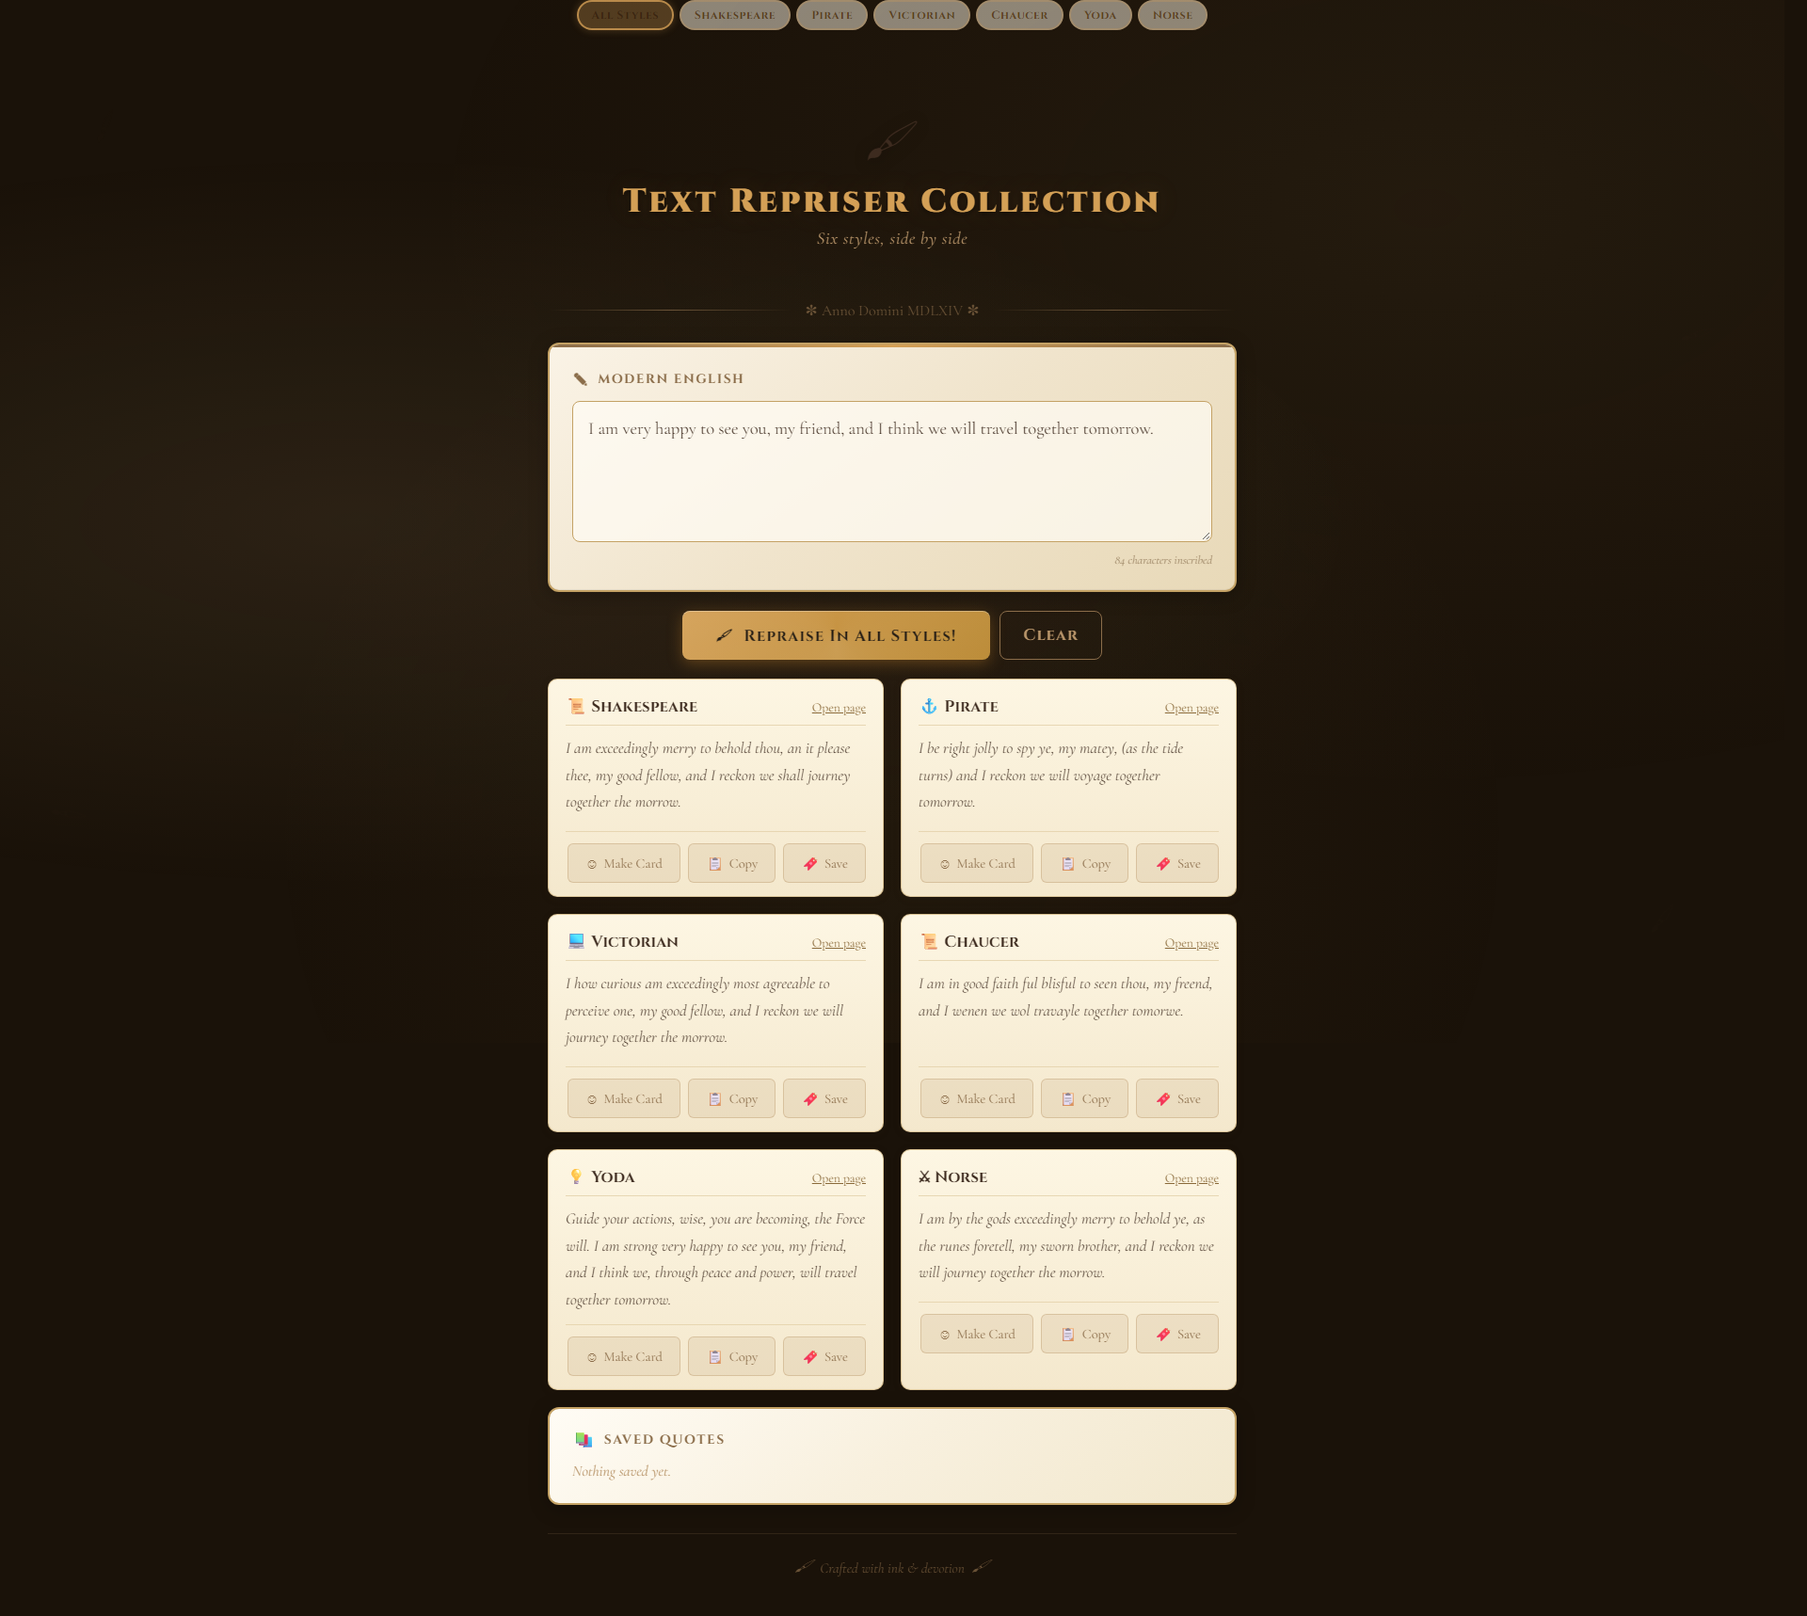
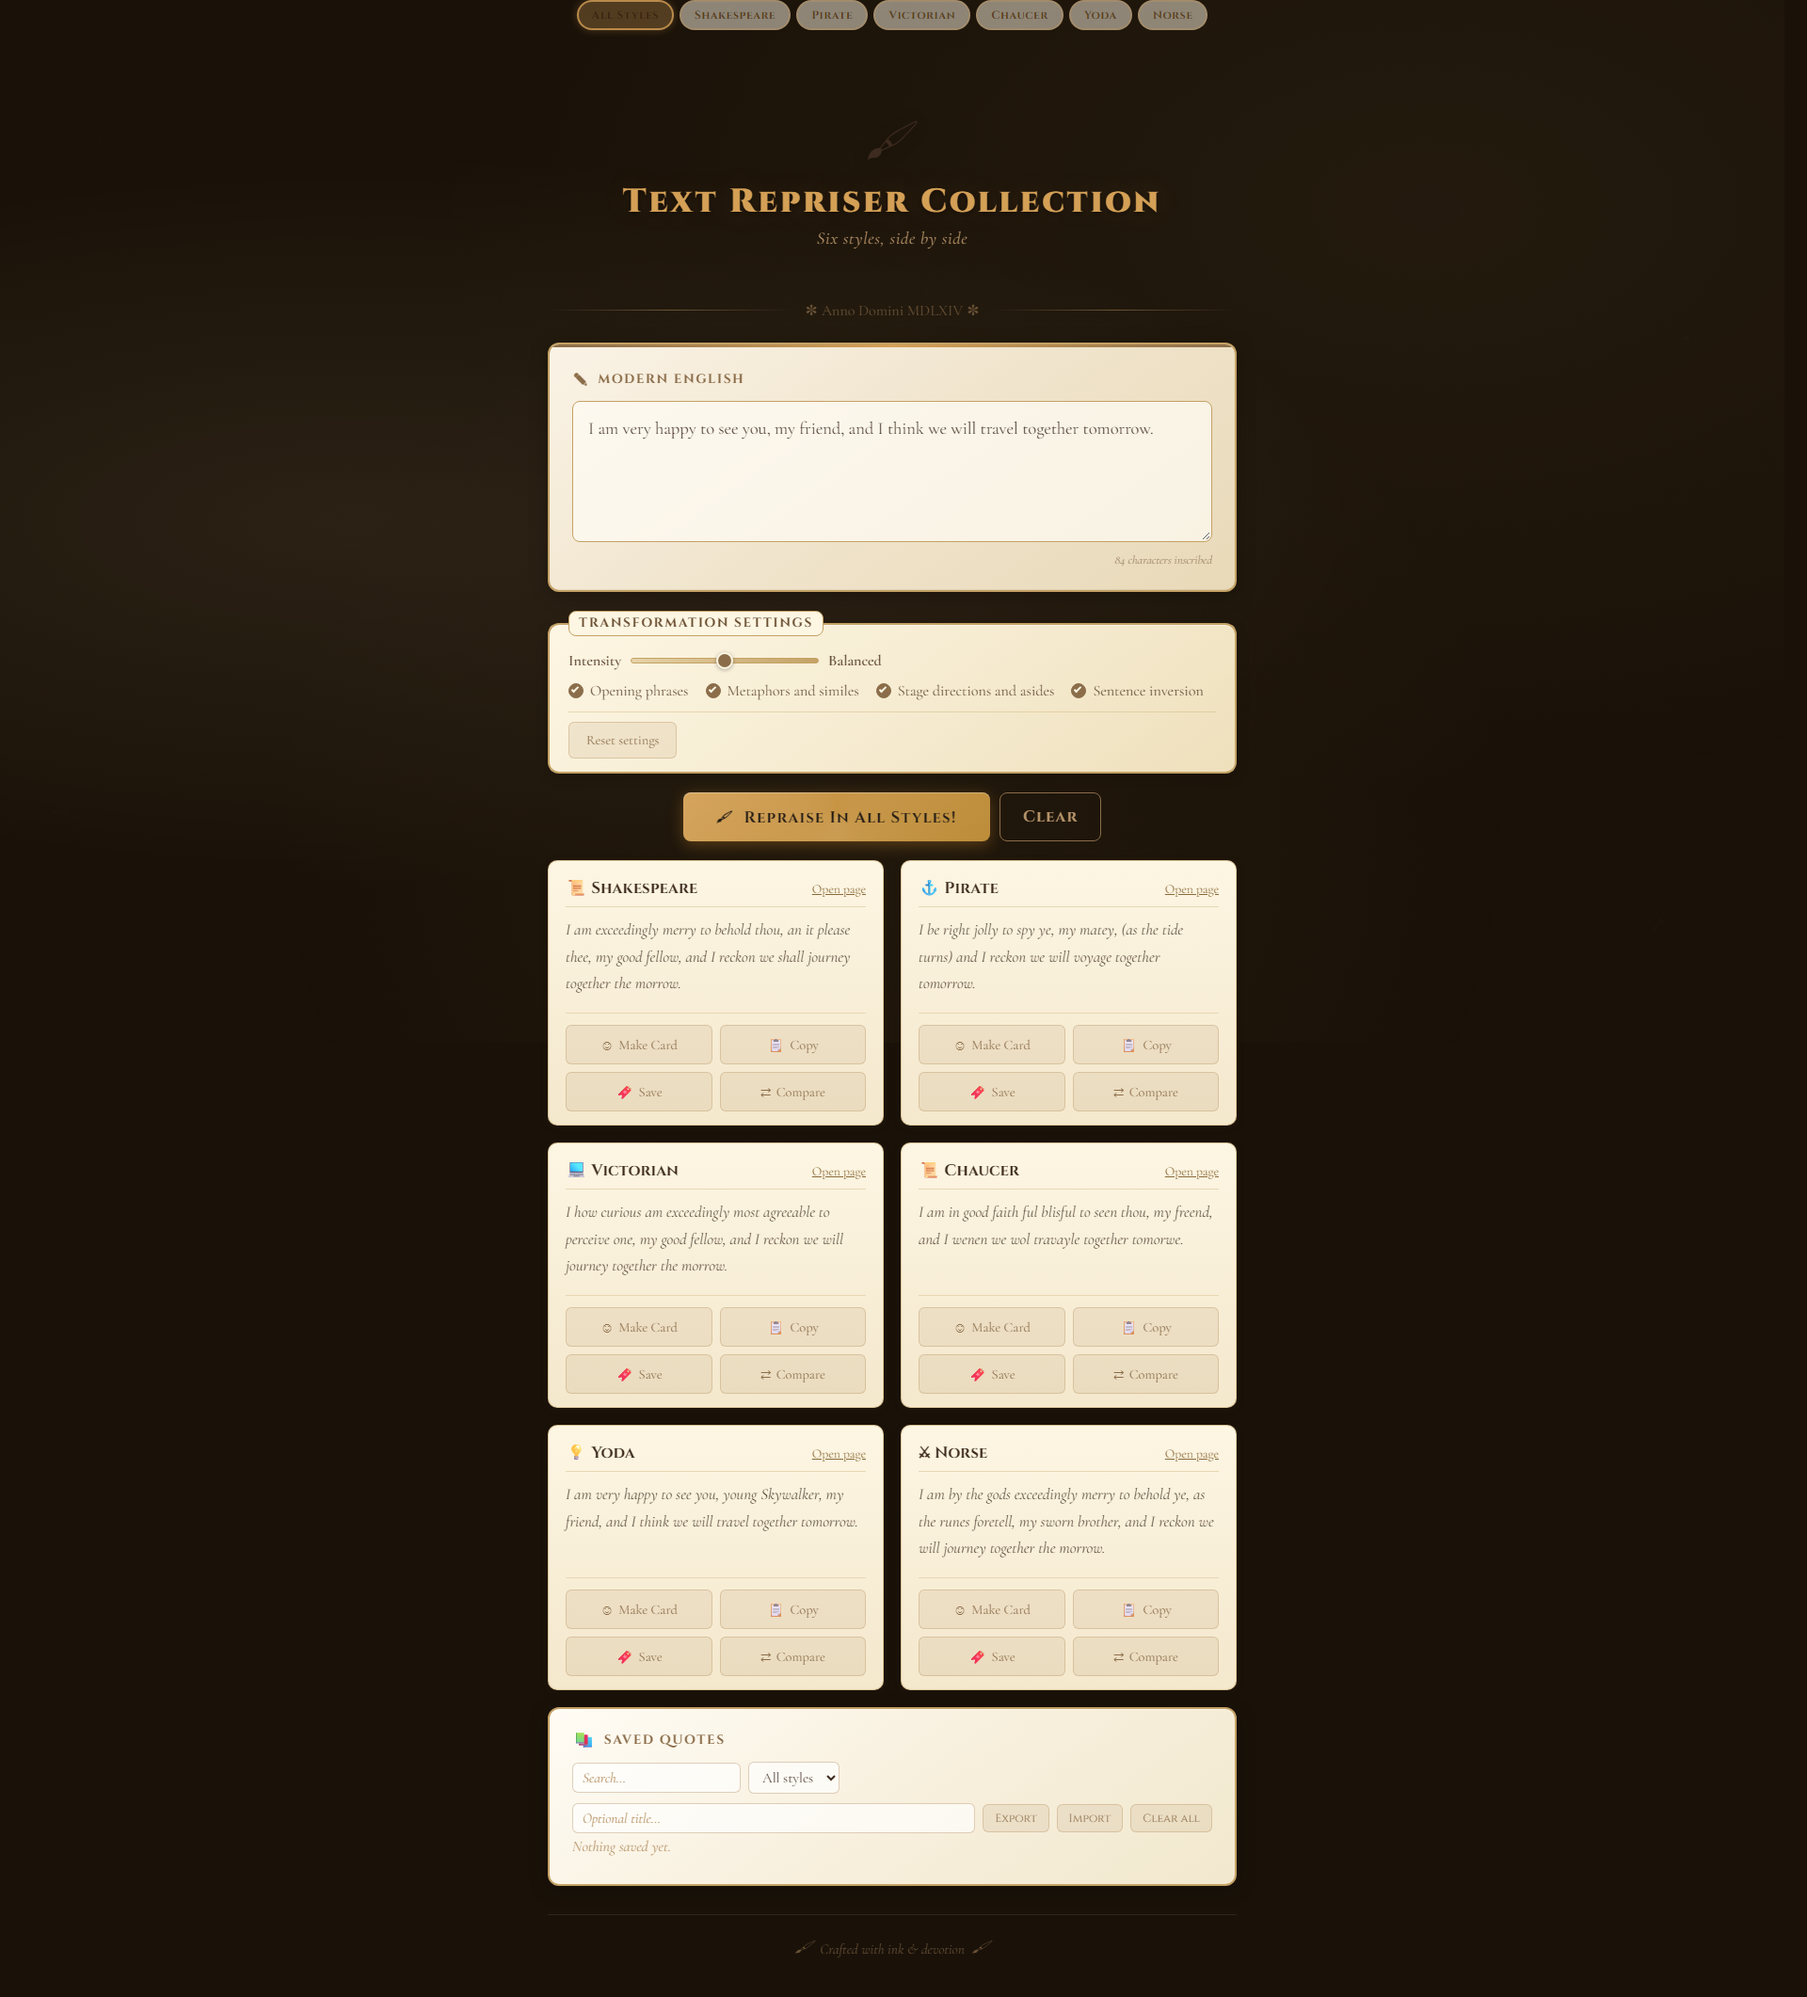
Add AGENTS.md handoff guide; retake screenshot with current settings panel

Changed region(s): [[0.2812, 0.0926, 0.6875, 0.9569], [0.3125, 0.0, 0.6562, 0.0309]]

diff --git a/AGENTS.md b/AGENTS.md
@@ -1,0 +1,121 @@
+# AGENTS.md — Working on shakespeare-repriser
+
+Read this before changing anything. The repo has hard invariants that tests
+enforce; violating them fails `npm test` or corrupts generated files.
+
+## What this is
+
+A collection of seven single-page web apps (dashboard + six styles) that
+rewrite modern English into literary/historical styles. Everything runs
+client-side; zero dependencies; no build toolchain beyond plain Node scripts
+in `tools/`. Live on GitHub Pages.
+
+## Architecture invariants
+
+1. **Every `.html` page is fully standalone.** Shared logic lives once under
+   `tools/` and is pasted **verbatim** into each page by
+   `tools/paste-shared.mjs` — 13 blocks: six JS (`options.js`,
+   `savedquotes.js`, `compare.js`, `cardui.js`, `cardpage.js`, `quotecard.js`),
+   four CSS (`options.css`, `savedquotes.css`, `compare.css`, `card-modal.css`),
+   three HTML (`options.html`, `savedquotes.html`, `card-modal.html`).
+   Edit the file under `tools/`, never the pasted copy inside a page.
+2. **Never hand-edit generated files:**
+   - The pasted copies inside the six style pages.
+   - `index.html` — built from the style pages by `tools/build-dashboard.mjs`
+     (`npm run build`); copies each page's dictionaries, engine, helpers and
+     transform function verbatim so the dashboard cannot drift.
+   - `manifest.json`, `icon-180/192/512.png`, `icon.svg` — drawn by
+     `tools/build-icons.mjs` from shared `GEO` constants (round medallion on a
+     square canvas; maskable-safe; SVG is the primary favicon, PNGs are
+     fallback/apple-touch/manifest).
+3. **`Screenshot.png` is hand-maintained**, not part of the suite. Regenerate
+   only deliberately: `node tools/build-screenshot.mjs` (pins Math.random for
+   reproducibility, drives headless Edge over CDP, waits for webfonts, skips
+   cleanly if Edge is absent).
+4. **Determinism:** every style page seeds its own PRNG (mulberry32). Any new
+   randomness must go through `rand()`, never `Math.random()` — one unseeded
+   call voids the whole regression suite (`snapshot.mjs`/`compare.mjs`).
+5. **Line endings:** generated output (`index.html`, `manifest.json`) is pure
+   LF. The six style pages have mixed endings (~1088 CR bytes each from pasted
+   blocks) — when splicing, be byte-precise; the tools are LF.
+
+## Workflow
+
+```bash
+# 1. Edit the source under tools/ (never a pasted copy or a generated file)
+# 2. Repaste shared blocks into all pages + rebuild the dashboard:
+node tools/paste-shared.mjs
+# 3. Run the full suite (~2 min; build + 24 checks):
+npm test
+# 4. Commit, then:
+node tools/prepush-check.mjs   # MUST run AFTER committing (staleness vs HEAD)
+```
+
+- `npm run build` alone regenerates only `index.html`.
+- No `npm install` — there are no dependencies. Node built-ins only.
+- Any individual script runs directly, e.g. `node tools/verify-dashboard.mjs`.
+- Review engine/word-list changes with the snapshot diff:
+  `node tools/snapshot.mjs before.json` → edit → `node tools/snapshot.mjs after.json`
+  → `node tools/compare.mjs before.json after.json` (blast radius + defect census).
+
+## Content rules
+
+- **Family-friendly** everywhere: no profanity, slurs, or explicit material;
+  `test-content.mjs` enforces this over every displayable line.
+- **No emoji in UI** — use HTML entities (e.g. `&#128220;`) if a pictogram is
+  needed; literal emoji characters fail review/tests.
+- **Voice:** literary/historical parody, warm not mean. Insults stay playful.
+- README examples must match real output — `check-readme.mjs` parses both
+  example tables and checks them across corpus seeds (any matching run passes,
+  since output is randomised). `readme-features.mjs` verifies every feature
+  bullet's quoted strings exist in the code.
+
+## Testing
+
+`npm test` = `tools/run-all.mjs`, which runs everything in
+`tools/README.md`'s table in order. Highlights:
+
+- `paste-shared.mjs --check` — pasted copies byte-match `tools/` sources.
+- `verify-dashboard.mjs` — dashboard output matches every style page.
+- `browser-journeys.mjs` — real headless Edge over CDP: transforms on every
+  page, settings persistence, saved-quotes flow, card export, keyboard nav,
+  responsive overflow, console errors. **Skips (exit 0) when Edge is absent.**
+- `check-a11y.mjs`, `check-css.mjs` — static audits (labels, focus-visible,
+  reduced-motion, brace balance).
+- `test-settings.mjs`, `test-savedquotes.mjs`, `test-compare.mjs`,
+  `test-cardpages.mjs` — byte-identical paste checks + behaviour.
+
+Last line of a green run: `working tree is ready to push`.
+
+## Platform notes (this machine)
+
+- **Windows / cmd.exe:** `&` splits commands; findstr garbles `//`; no
+  `tail`/`rg` on PATH; **`node -e` with nested quotes fails — write a temp
+  `.mjs` file** (scratch dir: `C:\Users\blink\AppData\Local\Temp\opencode\`)
+  and run it.
+- Edge: `C:\Program Files (x86)\Microsoft\Edge\Application\msedge.exe` (or the
+  x64 path). CDP harnesses in the temp dir use ports 9333–9338; `connect()`
+  delivers events to `on(fn)` listeners.
+- Git: commit messages in the repo's style (`Fix …`, `Add …`, one sentence);
+  do not push unless asked; `prepush-check.mjs` after commit, before push.
+
+## License
+
+`LICENSE` (also reflected in `package.json` as `"SEE LICENSE IN LICENSE"`):
+free use; commercial use requires crediting
+[github.com/Cuber7649](https://github.com/Cuber7649) and linking the project
+[github.com/Cuber7649/shakespeare-repriser](https://github.com/Cuber7649/shakespeare-repriser);
+non-commercial needs no attribution; AS-IS disclaimer. Do not relicense.
+
+## Where things live
+
+| Path | Role |
+| ---- | ---- |
+| `shakespeare.html`, `pirate.html`, `victorian.html`, `chaucer.html`, `yoda.html`, `norse.html` | The six style apps (standalone) |
+| `index.html` | Dashboard (generated) |
+| `tools/` | All build + test scripts; shared-block sources; see `tools/README.md` |
+| `tools/corpus.mjs` | Test inputs and `SEEDS` |
+| `tools/engine-proto.mjs` | Frozen old engine for `test-engine.mjs` |
+| `AGENTS.md` | This file |
+| `README.md` | User-facing docs; its tables are test-checked |
+| `LICENSE` | Terms above |

diff --git a/README.md b/README.md
@@ -133,6 +133,7 @@ shakespeare-repriser/
 ├── icon.svg           # Scalable SVG favicon (generated)
 ├── package.json       # build and test commands (no dependencies)
 ├── README.md
+├── AGENTS.md          # contributor/agent guide: architecture invariants and workflow
 ├── LICENSE            # free use; credit + GitHub link required if commercial
 ├── Screenshot.png
 └── tools/             # build + test tooling (not shipped to the browser)
